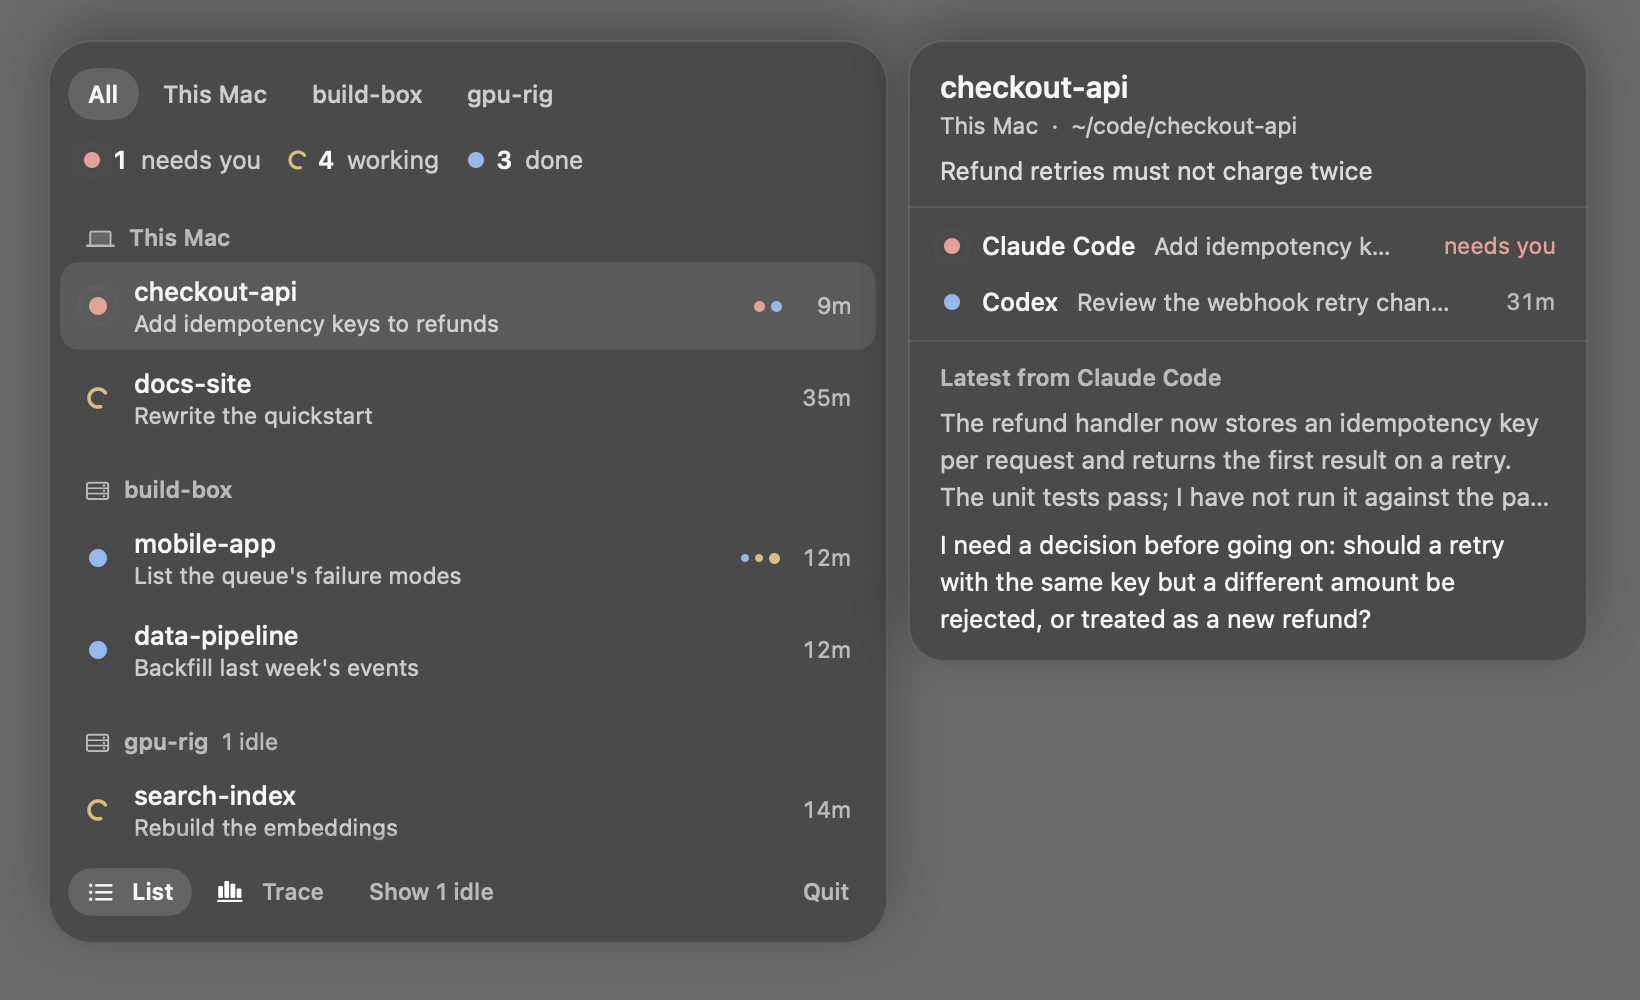
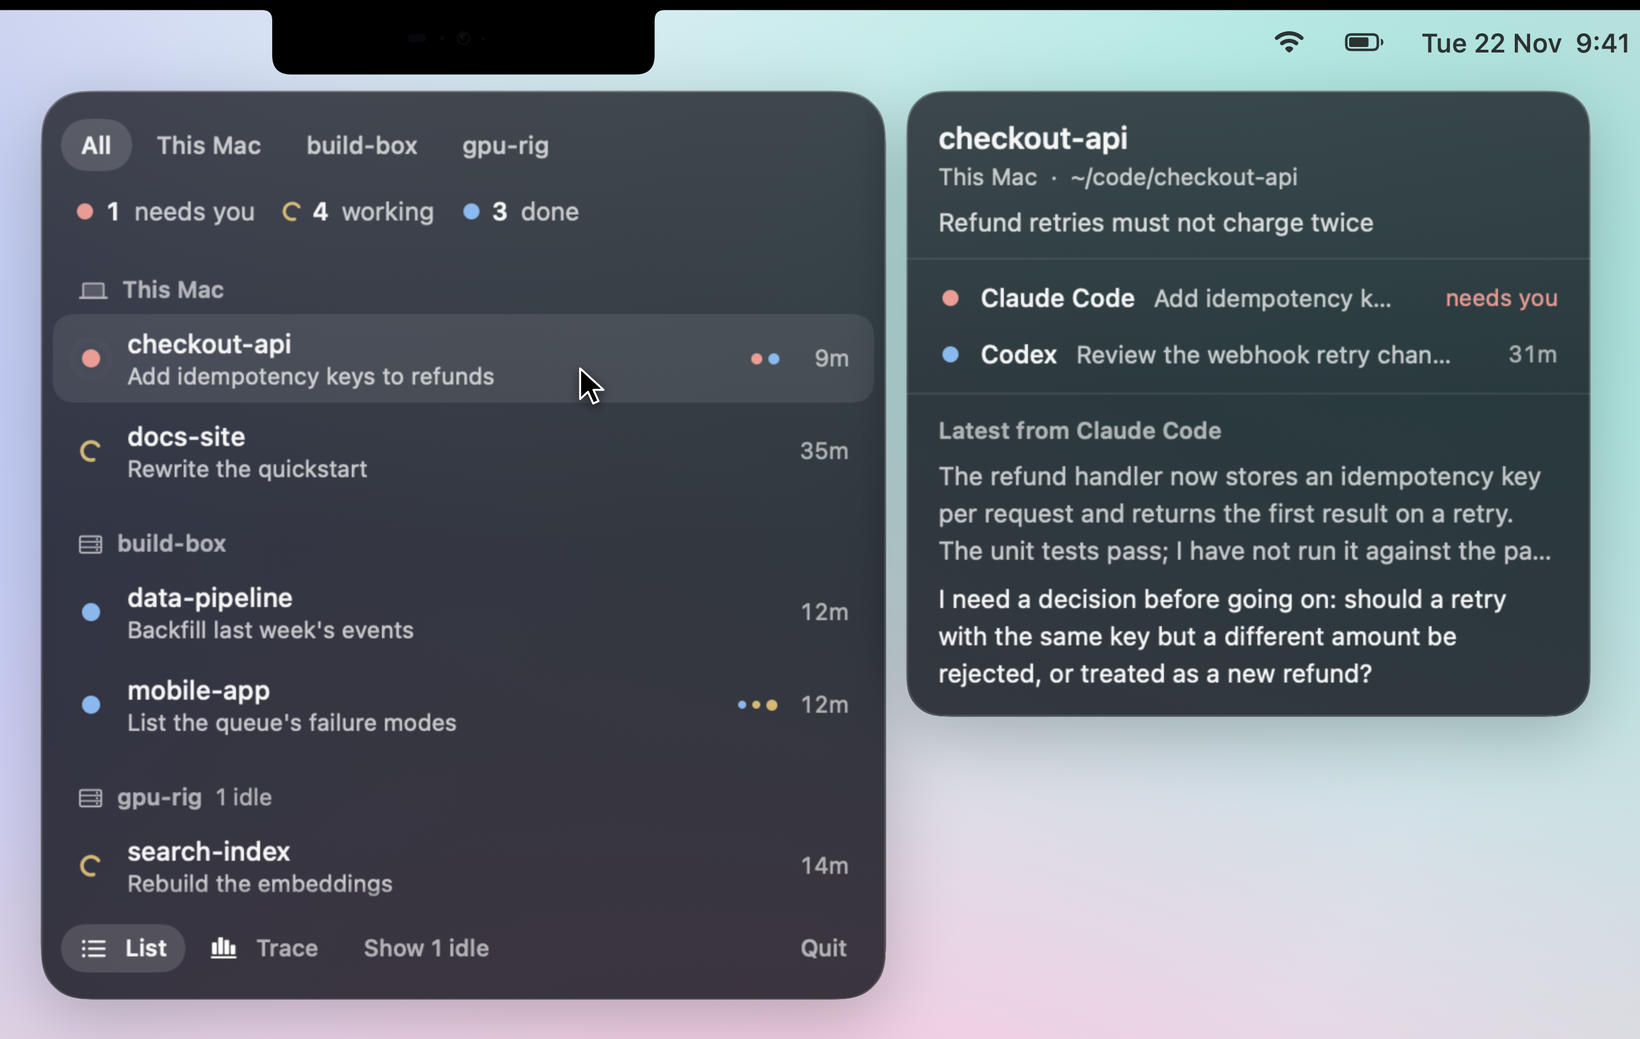
README: screenshots with the frosted glass and detached panel
The earlier pictures showed the flat grey look from before the glass and
the floating panel. These are composites: panel contents from the app's
own --render --demo output, over illustrated glass and wallpaper.

diff --git a/README.md b/README.md
@@ -34,8 +34,9 @@ This is an unofficial companion app. It is not made by or affiliated with the He
 - helper agents as thinner lanes under the agent that started them
 - sorted by what cost you the most: agents waiting on you first, longest wait on top
 
-The screenshots are drawn offscreen with invented data (`--render --demo`), so they show a flat backdrop where the
-running app shows frosted glass.
+The screenshots are composites, not screen captures. What is written on the panels is drawn by the app itself
+with invented data (`--render --demo`); the frosted glass, wallpaper and notch around it are illustrated, because
+the app's live blur cannot be captured offscreen.
 
 ## Requirements
 
